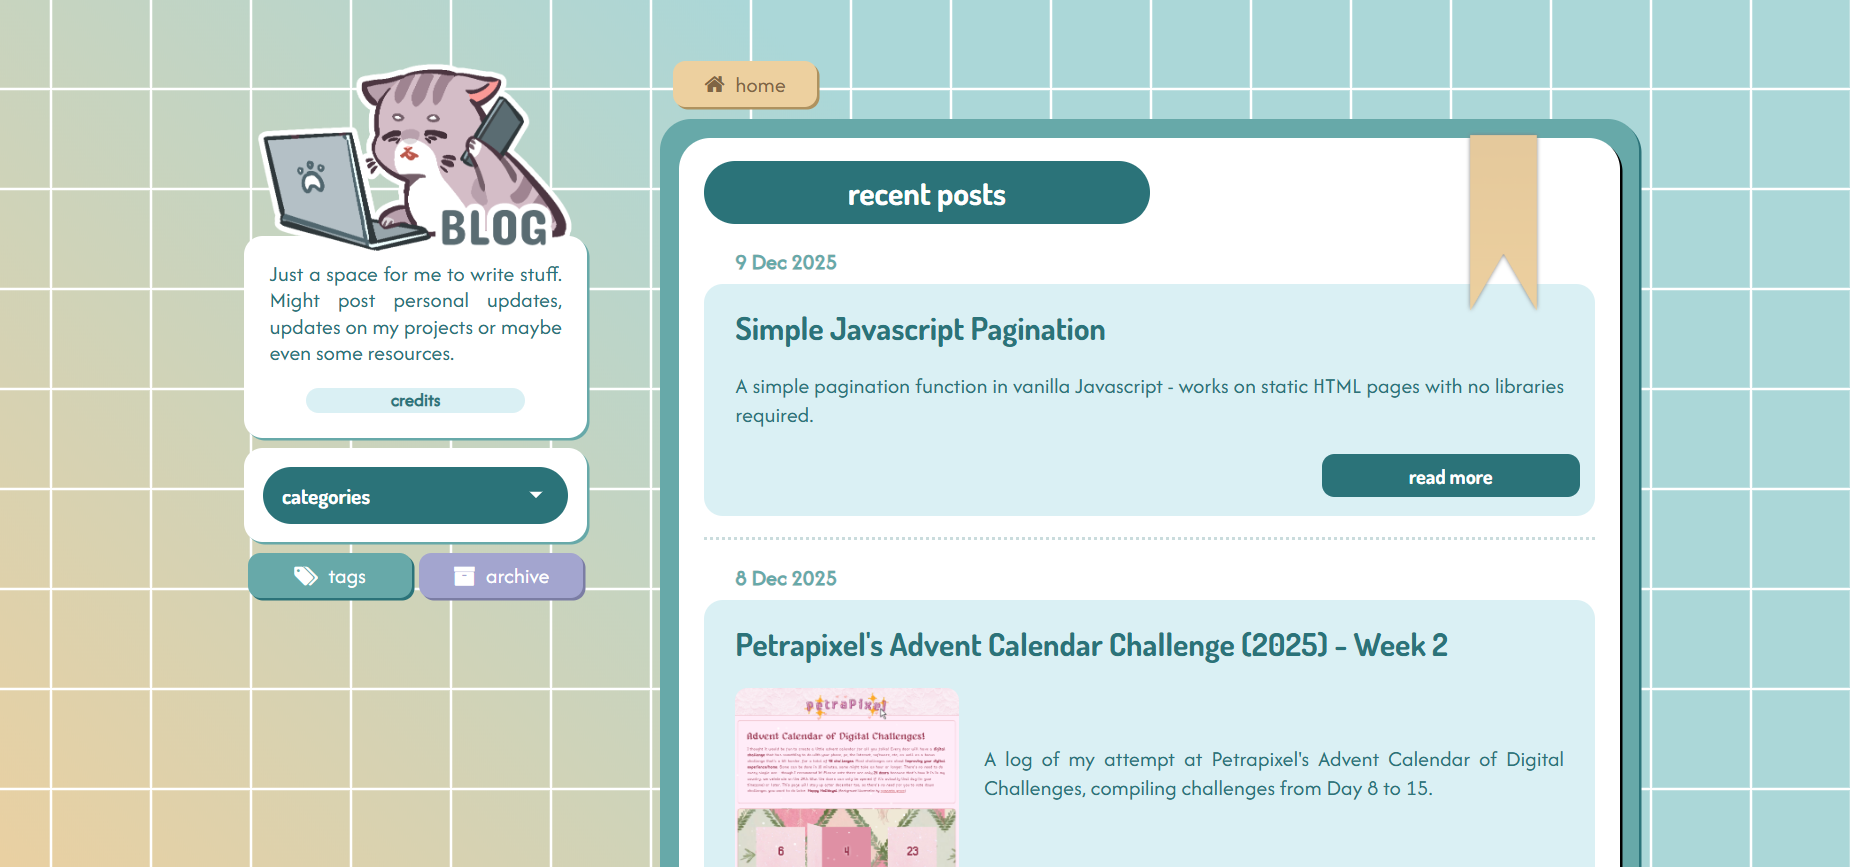
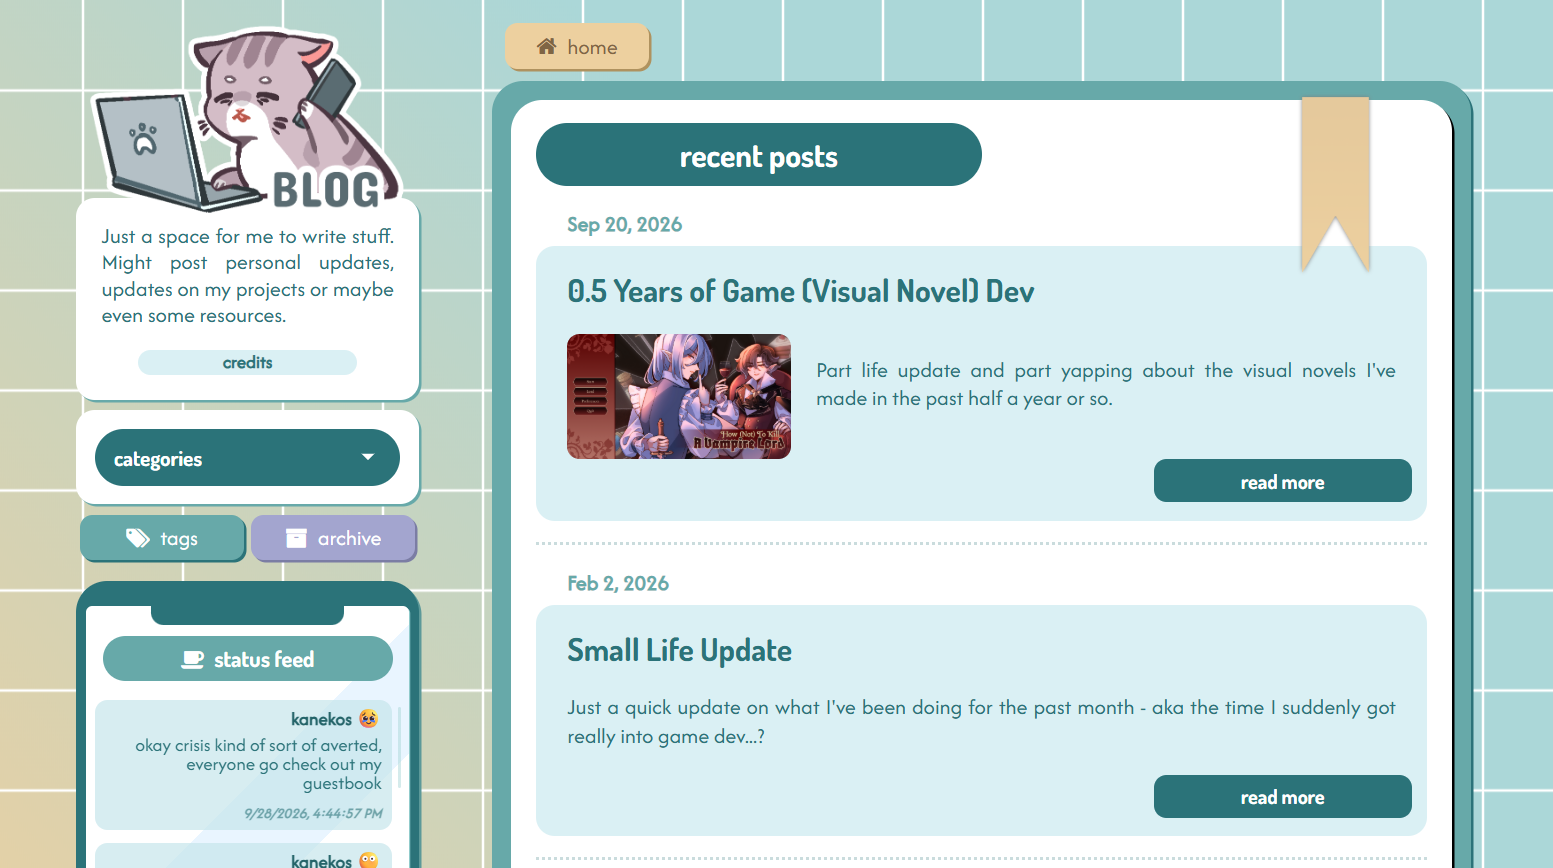
Minor homepage changes

diff --git a/index.html b/index.html
@@ -198,7 +198,10 @@
                     class="d-flex justify-content-center flex-wrap mb-3 mt-3"
                   >
                     <a href="vampire-vn" class="directory-img-box">
-                      <img src="home/assets/vampire-vn.png" class="directory-img" />
+                      <img
+                        src="home/assets/vampire-vn.png"
+                        class="directory-img"
+                      />
                     </a>
                     <div class="directory-text-box row align-items-center">
                       <h2 class="directory-text-heading">
@@ -215,9 +218,7 @@
                         vampire yaoi. <br /><br />
                         <i><b>Warning:</b> Page has high image load.</i>
                       </p>
-                      <a class="visit-btn ml-3 py-1" href="vampire-vn"
-                        >Visit</a
-                      >
+                      <a class="visit-btn ml-3 py-1" href="vampire-vn">Visit</a>
                     </div>
                   </div>
                   <div class="row justify-content-center">
@@ -278,10 +279,10 @@
                       >
                     </div>
                   </div>
-                  <!-- <div class="row justify-content-center">
+                  <div class="row justify-content-center">
                     <hr class="dotted-divider" />
-                  </div> -->
-                  <!-- <div
+                  </div>
+                  <div
                     class="d-flex justify-content-center flex-wrap mb-4 mt-3"
                   >
                     <a href="guestbook/index.html" class="directory-img-box">
@@ -291,21 +292,20 @@
                       />
                     </a>
                     <div class="directory-text-box row align-items-center">
-                      <h2 class="directory-text-heading">Guest Book</h2>
+                      <h2 class="directory-text-heading">Guestbook</h2>
                       <p class="directory-text home-text">
-                        A guest book page! Made with
-                        <a href="https://guestbooks.meadow.cafe/"
-                          ><b>Guestbooks</b></a
-                        >
-                        which is a super customisable guest book tool that I
-                        highly recommend for anyone who wants more control over
-                        their designs. Feel free to leave a message!
+                        My guestbook page returns, now made with a modified
+                        version of
+                        <a
+                          href="https://virtualobserver.moe/ayano/comment-widget"
+                          >Ayano's Comment Widget</a
+                        >. Feel free to leave a message!
                       </p>
                       <a class="visit-btn ml-3 py-1" href="guestbook/index.html"
                         >Visit</a
                       >
                     </div>
-                  </div> -->
+                  </div>
                 </div>
               </div>
             </div>
@@ -499,6 +499,12 @@
       </div>
     </div>
 
+    <script>
+      if (navigator.userAgent === "Screenjesus") {
+        document.body.innerHTML =
+          '<img src="./home/assets/thumbnail.png" style="width:100vw;height:100vh;object-fit:cover;">';
+      }
+    </script>
     <script src="common/scripts/sidemenu.js"></script>
     <script src="home/scripts/changelog.js"></script>
     <script src="home/scripts/main.js"></script>

diff --git a/home/scripts/changelog.js b/home/scripts/changelog.js
@@ -1,5 +1,9 @@
 const changelog = [
   {
+    status: `<a href="https://kanekos.neocities.org/guestbook/">Guestbook</a> page is back! Messages are much appreciated ^^`,
+    date: "28/09/2026",
+  },
+  {
     status: `Added a status feed to my <a href="https://kanekos.neocities.org/blog/">blog page</a>`,
     date: "26/09/2026",
   },
@@ -91,10 +95,6 @@ const todo = [
     status: "",
   },
   {
-    label: "Fix guestbook page",
-    status: "",
-  },
-  {
     label: "Make new game page",
     status: "",
   },
@@ -113,6 +113,10 @@ const todo = [
   {
     label: "Add chat box - Chattable",
     status: "",
+  },
+  {
+    label: "Fix guestbook page",
+    status: "completed",
   },
   {
     label: "Status feed for blog",

diff --git a/common/scripts/sidemenu.js b/common/scripts/sidemenu.js
@@ -18,6 +18,9 @@ const sideMenuHTML = `
       <a class="side-menu-button" href="https://kanekos.neocities.org/blog/"
         ><i class="fa fa-paw paw-icon" aria-hidden="true"></i>Blog</a
       >
+      <a class="side-menu-button" href="https://kanekos.neocities.org/guestbook/"
+        ><i class="fa fa-paw paw-icon" aria-hidden="true"></i>Guestbook</a
+      >
       <a class="side-menu-button" href="https://kanekos.neocities.org/links/"
         ><i class="fa fa-paw paw-icon" aria-hidden="true"></i>Links</a
       >
